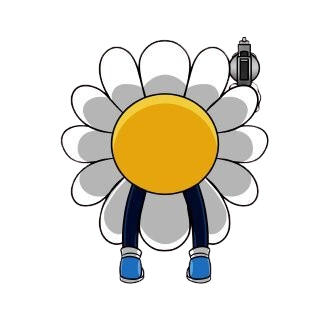
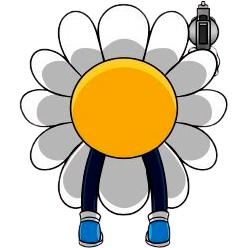
increased daisy & refactored stuff

diff --git a/src/components/duel/character-gun.tsx b/src/components/duel/character-gun.tsx
@@ -54,23 +54,38 @@ const imagesMap = {
 // A function cva need for work prettier-plugin-tailwindcss
 const cva = (className: string) => className
 const positionStylesMap = {
-  front: {
-    nubcat: cva('top-0 left-[30%] aspect-[1/2.3] w-[40%]'),
-    mickey: cva('top-[13%] left-[14%] aspect-[1/1.8] w-[29.5%]'),
-    fatty: cva('top-[6%] left-[15%] aspect-[1/2.4] w-[22.5%] rotate-12'),
-    'anime-1': cva('top-[24%] left-[10%] aspect-[1/1.82] w-[14.5%]'),
-    'anime-2': cva('top-[15%] left-[33%] aspect-[1/2.1] w-[14%]'),
-    daisy: cva('top-[20%] left-[29%] aspect-[1/2.2] w-[13%]'),
+  gun: {
+    front: {
+      nubcat: cva('top-0 left-[30%] aspect-[1/2.3] w-[40%]'),
+      mickey: cva('top-[13%] left-[14%] aspect-[1/1.8] w-[29.5%]'),
+      fatty: cva('top-[6%] left-[15%] aspect-[1/2.4] w-[22.5%] rotate-12'),
+      'anime-1': cva('top-[24%] left-[10%] aspect-[1/1.82] w-[14.5%]'),
+      'anime-2': cva('top-[15%] left-[33%] aspect-[1/2.1] w-[14%]'),
+      daisy: cva('top-[9%] left-[18%] aspect-[1/2] w-[17.5%]'),
+    },
+    back: {
+      nubcat: cva('right-[6%] w-[20%]'),
+      mickey: cva('top-[17%] right-[22%] w-[10%]'),
+      fatty: cva('right-[14%] w-[14%] -rotate-8'),
+      'anime-1': cva('top-[20%] left-[30%] w-[6.5%]'),
+      'anime-2': cva('top-[17%] right-[33.5%] w-[6%]'),
+      daisy: cva('top-[0%] right-[11%] w-[14%]'),
+    },
   },
-  back: {
-    nubcat: cva('right-[6%] w-[20%]'),
-    mickey: cva('top-[17%] right-[22%] w-[10%]'),
-    fatty: cva('right-[14%] w-[14%] -rotate-8'),
-    'anime-1': cva('top-[20%] left-[30%] w-[6.5%]'),
-    'anime-2': cva('top-[17%] right-[33.5%] w-[6%]'),
-    daisy: cva('top-[10%] right-[18%] w-[11%]'),
+  hand: {
+    front: {
+      nubcat: cva('bottom-[-10%] left-[38.5%]'),
+      mickey: cva('h-[80%]'),
+      fatty: cva('left-[40%] h-[64%]'),
+      'anime-1': cva('h-[65%]'),
+      'anime-2': cva('h-[65%]'),
+      daisy: cva('top-[30%] bottom-auto left-[22%] h-[115%]'),
+    },
   },
-} satisfies Record<CharacterType, Record<CharacterName, string>>
+} satisfies {
+  gun: Record<CharacterType, Record<CharacterName, string>>
+  hand: Record<Exclude<CharacterType, 'back'>, Record<CharacterName, string>>
+}
 
 const GunCharacter = React.forwardRef<HTMLDivElement, GunCharacterProps>(
   (
@@ -81,14 +96,7 @@ const GunCharacter = React.forwardRef<HTMLDivElement, GunCharacterProps>(
     const gunRef = useRef<HTMLDivElement>(null)
     const rotateRef = useRef(0)
     const [showShot, setShowShot] = useState(false)
-    const hideGun = characterType === 'back'
-    const isFront = characterType === 'front'
-    const isNubcat = characterName === 'nubcat'
-    const isMickey = characterName === 'mickey'
-    const isFatty = characterName === 'fatty'
-    const isAnime1 = characterName === 'anime-1'
-    const isAnime2 = characterName === 'anime-2'
-    const isDaisy = characterName === 'daisy'
+    const isBack = characterType === 'back'
 
     const images = imagesMap[characterName]
 
@@ -127,7 +135,7 @@ const GunCharacter = React.forwardRef<HTMLDivElement, GunCharacterProps>(
           ref={mergeRefs(ref, gunRef)}
           className={cn(
             'absolute z-[50] aspect-[1/1.5]',
-            positionStylesMap[characterType][characterName],
+            positionStylesMap.gun[characterType][characterName],
             className,
           )}
           {...props}
@@ -139,14 +147,9 @@ const GunCharacter = React.forwardRef<HTMLDivElement, GunCharacterProps>(
           <div
             className={cn(
               'absolute bottom-0 left-1/2 aspect-[1632/1830] h-[90%] -translate-x-1/2 bg-contain bg-center bg-no-repeat',
-              hideGun && 'opacity-0',
-              isFront && isNubcat && 'bottom-[-10%] left-[38.5%]',
-              isFront && isMickey && 'b h-[80%]',
-              isFront && isFatty && 'b left-[40%] h-[64%]',
-              isFront && isAnime1 && 'b h-[65%]',
-              isFront && isAnime2 && 'b h-[65%]',
-              isFront && isAnime2 && 'b h-[65%]',
-              isFront && isDaisy && 'top-[30%] bottom-auto left-[30%] h-[92%]',
+              isBack && 'opacity-0',
+              characterType === 'front' &&
+                positionStylesMap.hand[characterType][characterName],
             )}
             style={{
               backgroundImage: `url(${images.hand})`,
@@ -167,7 +170,7 @@ const GunCharacter = React.forwardRef<HTMLDivElement, GunCharacterProps>(
           <div
             className={cn(
               'absolute top-[10%] right-0 left-0 aspect-square',
-              hideGun && 'opacity-0',
+              isBack && 'opacity-0',
             )}
             data-chamber
           >
@@ -182,7 +185,7 @@ const GunCharacter = React.forwardRef<HTMLDivElement, GunCharacterProps>(
           <div
             className={cn(
               'pointer-events-none absolute inset-0 bg-contain bg-center bg-no-repeat',
-              hideGun && 'opacity-0',
+              isBack && 'opacity-0',
             )}
             style={{
               backgroundImage: `url(${IMAGES.gunbodycharacter})`,
@@ -200,8 +203,8 @@ const GunCharacter = React.forwardRef<HTMLDivElement, GunCharacterProps>(
               ></div>
               <div
                 className={cn(
-                  'absolute inset-0 scale-600',
-                  'zoom-in fade-in fill-mode-backwards animate-in bg-contain bg-center bg-no-repeat delay-250 duration-150 ease-linear',
+                  'absolute inset-0 scale-600 bg-contain bg-center bg-no-repeat',
+                  'zoom-in fade-in fill-mode-backwards animate-in delay-250 duration-150 ease-linear',
                 )}
                 style={{ backgroundImage: `url(${IMAGES.shot2})` }}
               ></div>
